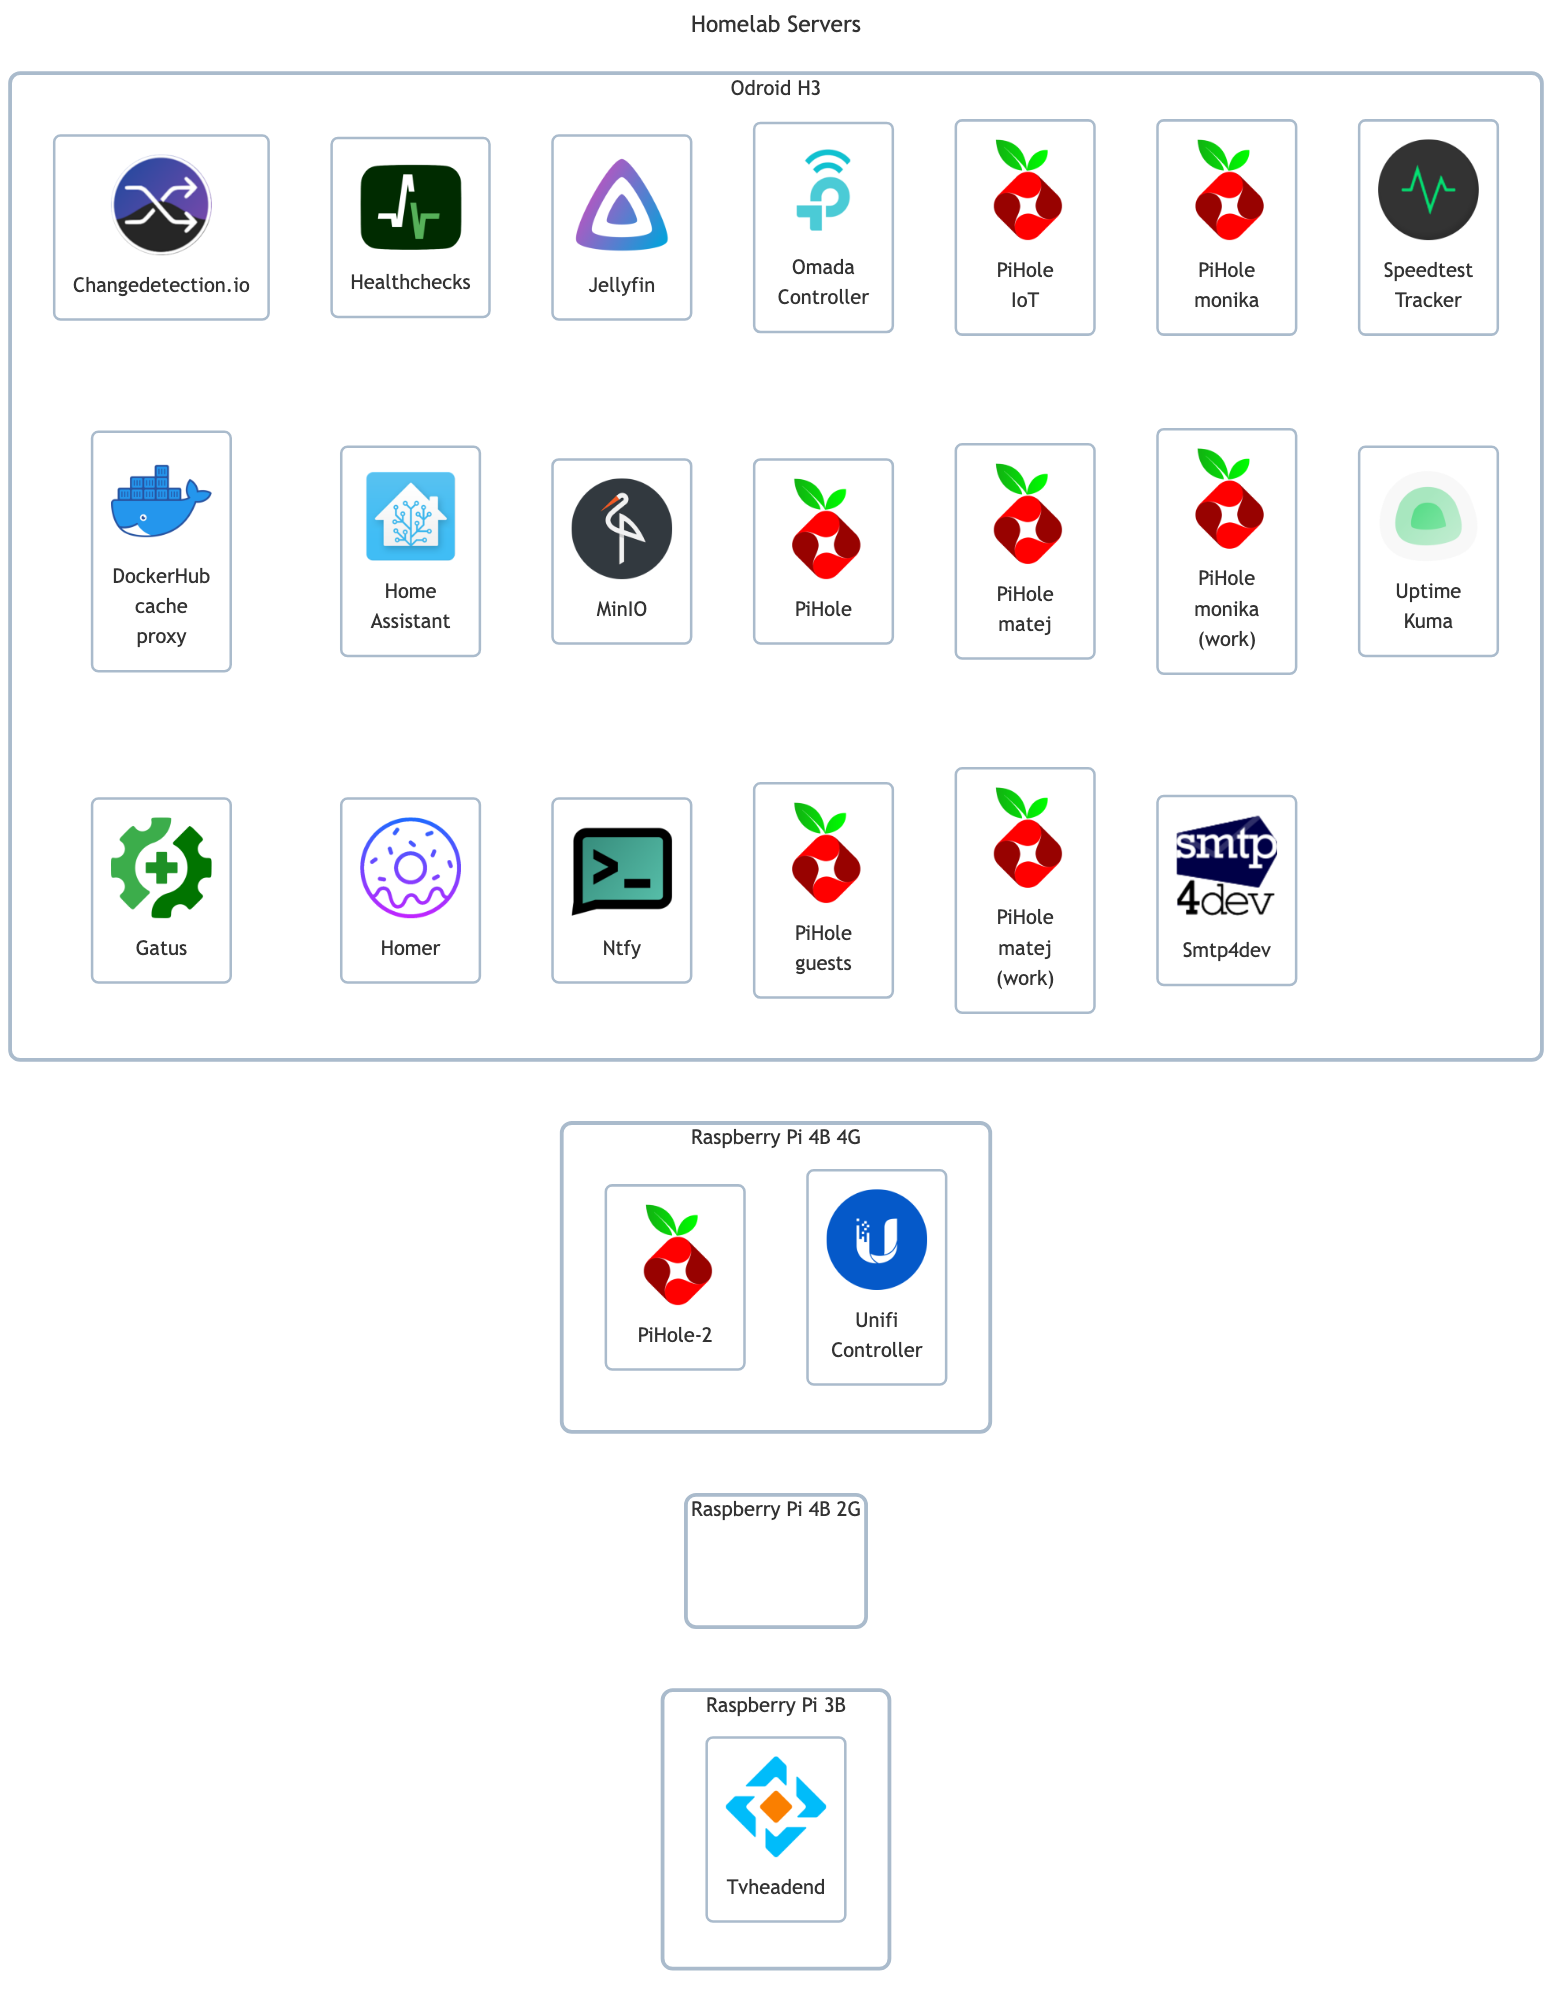
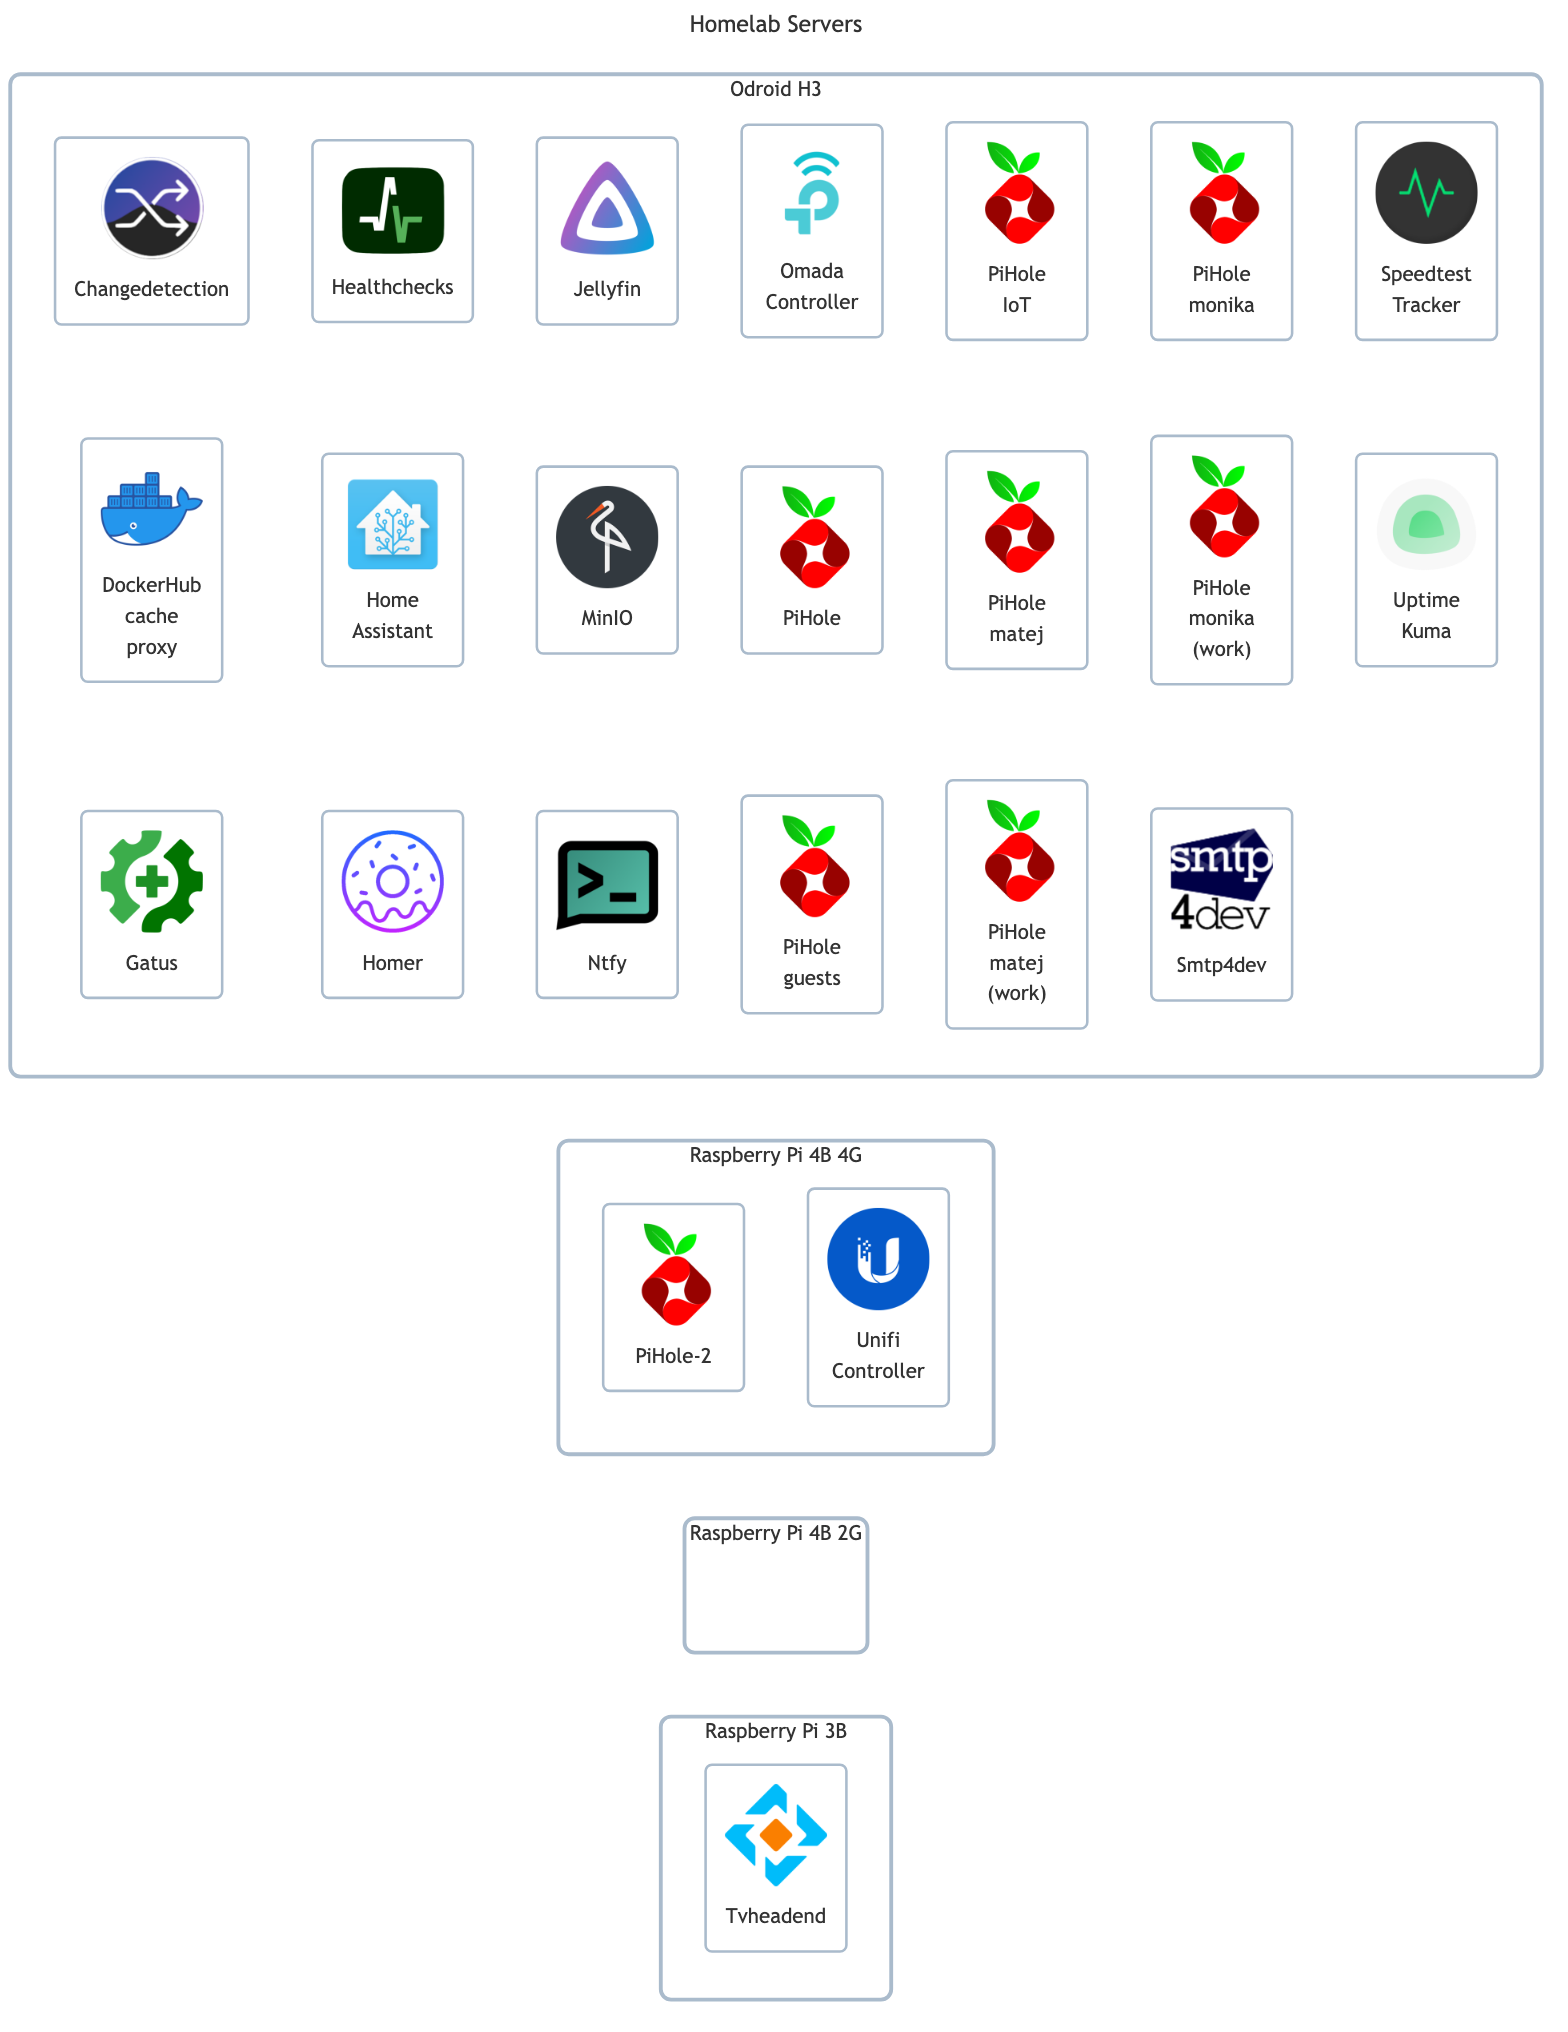
docs: change changedetection titles

diff --git a/docker-apps/changedetection/README.md b/docker-apps/changedetection/README.md
@@ -1,4 +1,4 @@
-# Changedetection.io
+# Changedetection
 
 ![diagram](../../docs/diagrams/out/apps/changedetection.png)
 
